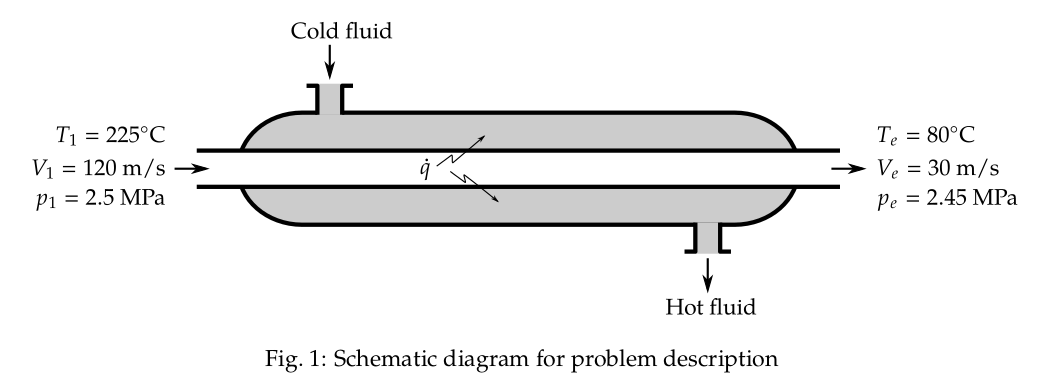
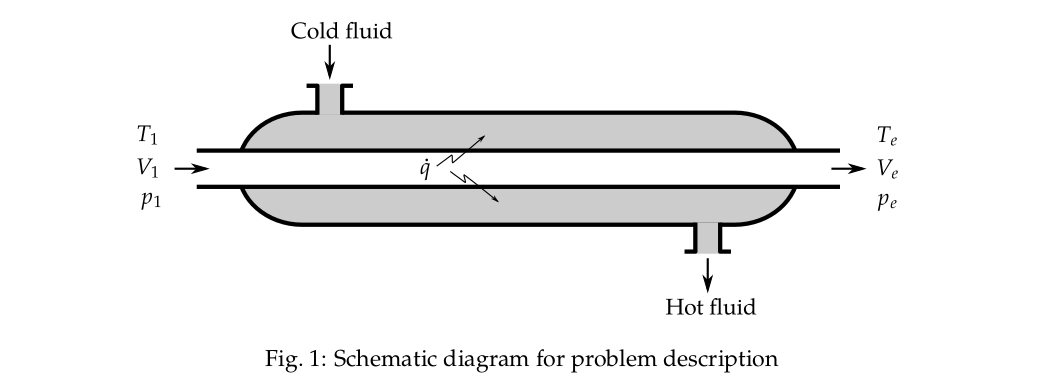
Updated figure 1 problem table

diff --git a/cff/chap01/index.html b/cff/chap01/index.html
@@ -37,12 +37,6 @@
         <div class="h2 mt-3 mb-3 font1">
             Chapter 1: Introduction
         </div>
-        <div class="lead mb-3">
-            The common library files required for running the programs can be downloaded
-            <a href="files/code/lib.zip">from this link</a>. <br>
-            Standard Python libraries <span class="text-info">numpy</span> and <span class="text-info">matplotlib</span>
-            need to be installed for running the computer programs.
-        </div>
     </div>
 
     <div class="container font2">
@@ -58,136 +52,168 @@
                     <th>#</th>
                     <th>Problem Description</th>
                     <th>Online</th>
-                    <th>PDF</th>
-                    <th>Code</th>
                 </tr>
             </thead>
             <tbody>
                 <tr>
                     <th>1</th>
-                    <td><a href="online/01/index.html">
+                    <td>
+                        <a href="online/01/index.html">
+                            <img src="images/01.png" width="200" alt="Problem 1"><br>
                             Is the flow incompressible?
-                        </a></td>
+                        </a>
+                    </td>
                     <td><a href="online/01/index.html">link</a></td>
-                    <td><a href="files/sol/q01.pdf">q01.pdf</a></td>
-                    <td><a href="files/code/q01.py">q01.py</a></td>
                 </tr>
                 <tr>
                     <th>2</th>
-                    <td><a href="online/02/index.html">
+                    <td>
+                        <a href="online/02/index.html">
+                            <img src="images/02.png" width="200" alt="Problem 2"><br>
                             Gravitational force acting on a spacecraft
-                        </a></td>
+                        </a>
+                    </td>
                     <td><a href="online/02/index.html">link</a></td>
-                    <td><a href="files/sol/q02.pdf">q02.pdf</a></td>
-                    <td><a href="files/code/q02.py">q02.py</a></td>
                 </tr>
                 <tr>
                     <th>3</th>
-                    <td><a href="online/03/index.html">
+                    <td>
+                        <a href="online/03/index.html">
+                            <img src="images/03.png" width="200" alt="Problem 3"><br>
                             Units conversion
-                        </a></td>
+                        </a>
+                    </td>
                     <td><a href="online/03/index.html">link</a></td>
-                    <td><a href="files/sol/q03.pdf">q03.pdf</a></td>
-                    <td><a href="files/code/q03.py">q03.py</a></td>
                 </tr>
                 <tr>
                     <th>4</th>
-                    <td><a href="online/04/index.html">
+                    <td>
+                        <a href="online/04/index.html">
+                            <img src="images/04.png" width="200" alt="Problem 4"><br>
                             Isentropic process
-                        </a></td>
+                        </a>
+                    </td>
                     <td><a href="online/04/index.html">link</a></td>
-                    <td><a href="files/sol/q04.pdf">q04.pdf</a></td>
-                    <td><a href="files/code/q04.py">q04.py</a></td>
                 </tr>
                 <tr>
                     <th>5</th>
-                    <td><a href="online/05/index.html">
+                    <td>
+                        <a href="online/05/index.html">
+                            <img src="images/05.png" width="200" alt="Problem 5"><br>
                             Conservation of energy
-                        </a></td>
+                        </a>
+                    </td>
                     <td><a href="online/05/index.html">link</a></td>
-                    <td><a href="files/sol/q05.pdf">q05.pdf</a></td>
-                    <td><a href="files/code/q05.py">q05.py</a></td>
                 </tr>
                 <tr>
                     <th>6</th>
-                    <td><a href="online/06/index.html">
+                    <td>
+                        <a href="online/06/index.html">
+                            <img src="images/06.png" width="200" alt="Problem 6"><br>
                             Conservation of mass
-                        </a></td>
+                        </a>
+                    </td>
                     <td><a href="online/06/index.html">link</a></td>
-                    <td><a href="files/sol/q06.pdf">q06.pdf</a></td>
-                    <td><a href="files/code/q06.py">q06.py</a></td>
                 </tr>
                 <tr>
                     <th>7</th>
-                    <td><a href="online/07/index.html">
+                    <td>
+                        <a href="online/07/index.html">
+                            <img src="images/07.png" width="200" alt="Problem 7"><br>
                             Thrust developed by jet engine
-                        </a></td>
+                        </a>
+                    </td>
                     <td><a href="online/07/index.html">link</a></td>
-                    <td><a href="files/sol/q07.pdf">q07.pdf</a></td>
-                    <td><a href="files/code/q07.py">q07.py</a></td>
                 </tr>
                 <tr>
                     <th>8</th>
-                    <td><a href="online/08/index.html">Jet efflux velocity</a></td>
+                    <td>
+                        <a href="online/08/index.html">
+                            <img src="images/08.png" width="200" alt="Problem 8"><br>
+                            Jet efflux velocity
+                        </a>
+                    </td>
                     <td><a href="online/08/index.html">link</a></td>
-                    <td><a href="files/sol/q08.pdf">q08.pdf</a></td>
-                    <td><a href="files/code/q08.py">q08.py</a></td>
                 </tr>
                 <tr>
                     <th>9</th>
-                    <td><a href="online/09/index.html">Thrust with afterburner</a></td>
+                    <td>
+                        <a href="online/09/index.html">
+                            <img src="images/09.png" width="200" alt="Problem 9"><br>
+                            Thrust with afterburner
+                        </a>
+                    </td>
                     <td><a href="online/09/index.html">link</a></td>
-                    <td><a href="files/sol/q09.pdf">q09.pdf</a></td>
-                    <td><a href="files/code/q09.py">q09.py</a></td>
                 </tr>
                 <tr>
                     <th>10</th>
-                    <td><a href="online/10/index.html">Thrust developed by rocket</a></td>
+                    <td>
+                        <a href="online/10/index.html">
+                            <img src="images/10.png" width="200" alt="Problem 10"><br>
+                            Thrust developed by rocket
+                        </a>
+                    </td>
                     <td><a href="online/10/index.html">link</a></td>
-                    <td><a href="files/sol/q10.pdf">q10.pdf</a></td>
-                    <td><a href="files/code/q10.py">q10.py</a></td>
                 </tr>
                 <tr>
                     <th>11</th>
-                    <td><a href="online/11/index.html">Effect of ambient pressure on thrust</a></td>
+                    <td>
+                        <a href="online/11/index.html">
+                            <img src="images/11.png" width="200" alt="Problem 11"><br>
+                            Effect of ambient pressure on thrust
+                        </a>
+                    </td>
                     <td><a href="online/11/index.html">link</a></td>
-                    <td><a href="files/sol/q11.pdf">q11.pdf</a></td>
-                    <td><a href="files/code/q11.py">q11.py</a></td>
                 </tr>
                 <tr>
                     <th>12</th>
-                    <td><a href="online/12/index.html">Mass flow rate of hydrogen</a></td>
+                    <td>
+                        <a href="online/12/index.html">
+                            <img src="images/12.png" width="200" alt="Problem 12"><br>
+                            Mass flow rate of hydrogen
+                        </a>
+                    </td>
                     <td><a href="online/12/index.html">link</a></td>
-                    <td><a href="files/sol/q12.pdf">q12.pdf</a></td>
-                    <td><a href="files/code/q12.py">q12.py</a></td>
                 </tr>
                 <tr>
                     <th>13</th>
-                    <td><a href="online/13/index.html">Jet propulsion system for an automobile</a></td>
+                    <td>
+                        <a href="online/13/index.html">
+                            <img src="images/13.png" width="200" alt="Problem 13"><br>
+                            Jet propulsion system for an automobile
+                        </a>
+                    </td>
                     <td><a href="online/13/index.html">link</a></td>
-                    <td><a href="files/sol/q13.pdf">q13.pdf</a></td>
-                    <td><a href="files/code/q13.py">q13.py</a></td>
                 </tr>
                 <tr>
                     <th>14</th>
-                    <td><a href="online/14/index.html">Flow of CO<sub>2</sub> with heat addition</a></td>
+                    <td>
+                        <a href="online/14/index.html">
+                            <img src="images/14.png" width="200" alt="Problem 14"><br>
+                            Flow of CO<sub>2</sub> with heat addition
+                        </a>
+                    </td>
                     <td><a href="online/14/index.html">link</a></td>
-                    <td><a href="files/sol/q14.pdf">q14.pdf</a></td>
-                    <td><a href="files/code/q14.py">q14.py</a></td>
                 </tr>
                 <tr>
                     <th>15</th>
-                    <td><a href="online/15/index.html">Heat exchanger</a></td>
+                    <td>
+                        <a href="online/15/index.html">
+                            <img src="images/15.png" width="200" alt="Problem 15"><br>
+                            Heat exchanger
+                        </a>
+                    </td>
                     <td><a href="online/15/index.html">link</a></td>
-                    <td><a href="files/sol/q15.pdf">q15.pdf</a></td>
-                    <td><a href="files/code/q15.py">q15.py</a></td>
                 </tr>
                 <tr>
                     <th>16</th>
-                    <td><a href="online/16/index.html">Force acting on nozzle of rocket engine</a></td>
+                    <td>
+                        <a href="online/16/index.html">
+                            <img src="images/16.png" width="200" alt="Problem 16"><br>
+                            Force acting on nozzle of rocket engine
+                        </a>
+                    </td>
                     <td><a href="online/16/index.html">link</a></td>
-                    <td><a href="files/sol/q16.pdf">q16.pdf</a></td>
-                    <td><a href="files/code/q16.py">q16.py</a></td>
                 </tr>
             </tbody>
         </table>

diff --git a/cff/create_table.py b/cff/create_table.py
@@ -1,10 +1,45 @@
-questions = 48
-for q in range(1, questions + 1):
+description = [
+    "Is the flow incompressible?",
+    "Gravitational force acting on a spacecraft",
+    "Units conversion",
+    "Isentropic process",
+    "Conservation of energy",
+    "Conservation of mass",
+    "Thrust developed by jet engine",
+    "Jet efflux velocity",
+    "Thrust with afterburner",
+    "Thrust developed by rocket",
+    "Effect of ambient pressure on thrust",
+    "Mass flow rate of hydrogen",
+    "Jet propulsion system for an automobile",
+    "Flow of CO<sub>2</sub> with heat addition",
+    "Heat exchanger",
+    "Force acting on nozzle of rocket engine"
+]
+
+print('<table class="table table-hover">')
+print('<thead class="thead-light">')
+print('<tr>')
+print('<th>#</th>')
+print('<th>Problem Description</th>')
+print('<th>Online</th>')
+print('</tr>')
+print('</thead>')
+
+print('<tbody>')
+
+for i, desc in enumerate(description):
+    q = i+1
     print('<tr>')
-    print('<th>%d</th>' % q)
-    print('<td><img src="images/q%02d.png" alt=""><br>' % q)
-    print('problem desc')
+    print(f'<th>{q}</th>')
+    print('<td>')
+    print(f'<a href="online/{q:02d}/index.html">')
+    print(f'<img src="images/{q:02d}.png" width="200" alt="Problem {q}"><br>')
+    print(desc)
+    print('</a>')
     print('</td>')
-    print('<td><a href="#">q%02d.pdf</a></td>' % q)
-    print('<td><a href="#">q%02d.py</a></td>' % q)
+    print(f'<td><a href="online/{q:02d}/index.html">link</a></td>')
     print('</tr>')
+
+print('</tbody>')
+print('</table>')
